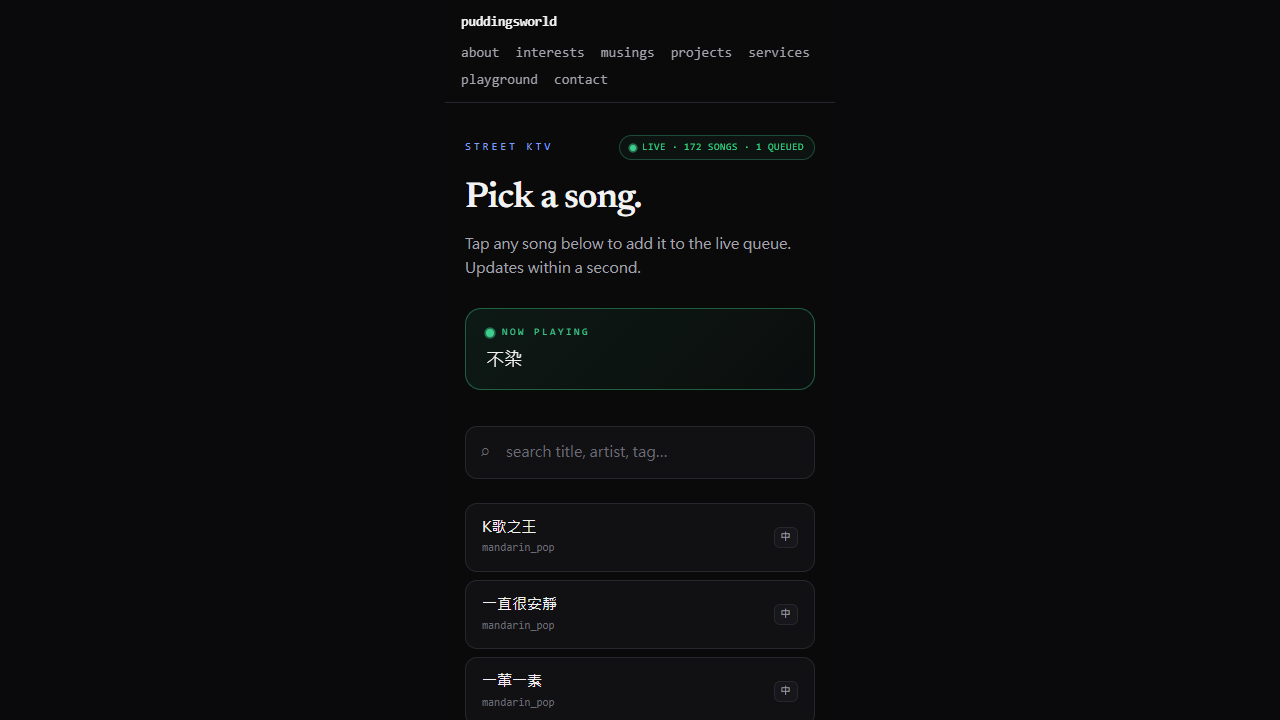
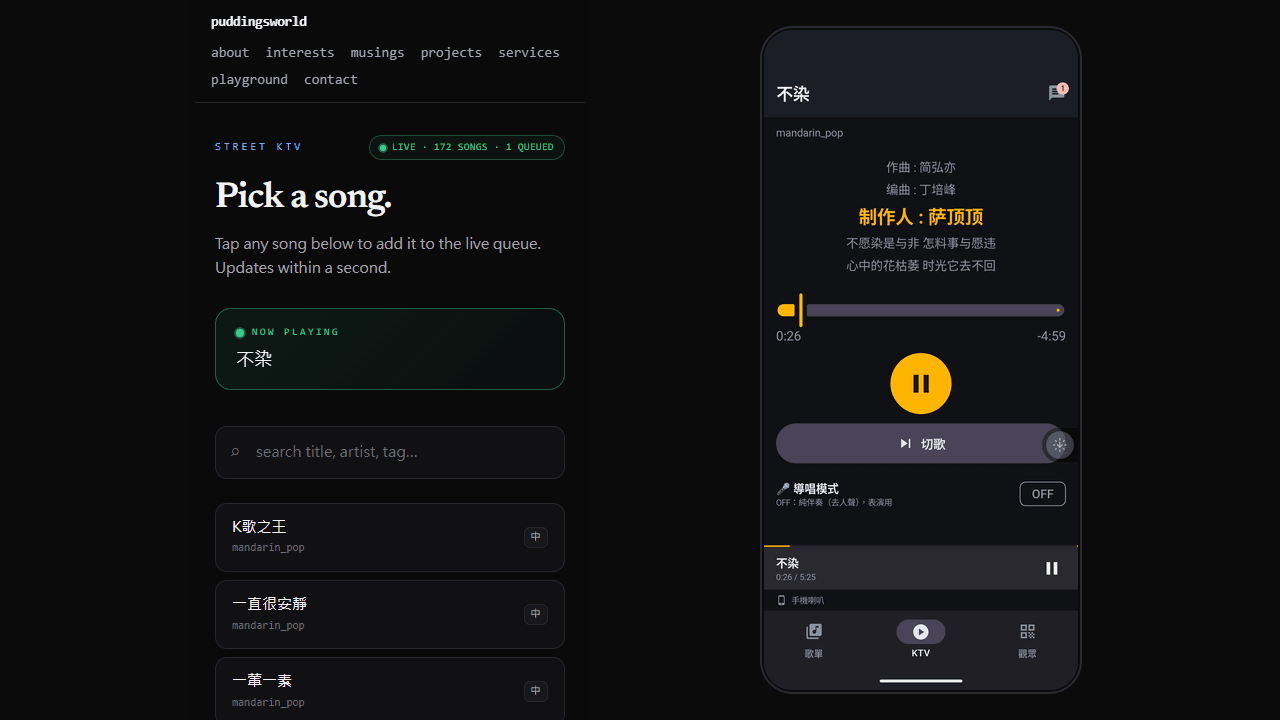
Street KTV thumbnail shows the Android app; GitHub links point at the org
The Street KTV card pairs the audience songbook with the performer app's
KTV screen. Footer, contact page, the hacker route and the /projects
header link to github.com/puddings-world; the personal profile stays on
the contact page.

diff --git a/app/contact/page.tsx b/app/contact/page.tsx
@@ -4,7 +4,8 @@ export const metadata = {
 
 const CONTACT = {
   email: "geniuspuddingforgames@gmail.com",
-  github: "https://github.com/GeniusPudding",
+  github: "https://github.com/puddings-world",
+  githubPersonal: "https://github.com/GeniusPudding",
 };
 
 export default function ContactPage() {
@@ -31,6 +32,12 @@ export default function ContactPage() {
           href={CONTACT.github}
           external
         />
+        <ContactRow
+          label="Personal"
+          value={CONTACT.githubPersonal.replace("https://", "")}
+          href={CONTACT.githubPersonal}
+          external
+        />
       </section>
 
       <p className="mt-12 text-sm text-ink-muted">
@@ -54,7 +61,7 @@ function ContactRow({
   external?: boolean;
 }) {
   return (
-    <div className="flex items-center justify-between rounded-lg border border-bg-border bg-bg-panel px-5 py-4">
+    <div className="flex items-center justify-between gap-4 rounded-lg border border-bg-border bg-bg-panel px-5 py-4">
       <span className="font-mono text-xs uppercase tracking-wider text-ink-muted">
         {label}
       </span>
@@ -62,7 +69,7 @@ function ContactRow({
         href={href}
         target={external ? "_blank" : undefined}
         rel={external ? "noreferrer" : undefined}
-        className="font-mono text-sm text-ink-primary hover:text-accent"
+        className="min-w-0 truncate font-mono text-sm text-ink-primary hover:text-accent"
       >
         {value}
       </a>

diff --git a/components/Header.tsx b/components/Header.tsx
@@ -13,7 +13,17 @@ export function Header({ totalProjects, live, shipped, lastFetched }: Props) {
         A running tab of what I&apos;m building, grouped by research, tools,
         and side projects. Every card is discovered from GitHub: tag a repo
         with the <code className="font-mono text-ink-primary">puddings-world</code>{" "}
-        topic and it shows up here on the next weekly refresh.
+        topic and it shows up here on the next weekly refresh. Public code
+        lives in the{" "}
+        <a
+          href="https://github.com/puddings-world"
+          target="_blank"
+          rel="noreferrer"
+          className="text-ink-primary underline decoration-bg-border underline-offset-4 hover:text-accent"
+        >
+          puddings-world organization on GitHub ↗
+        </a>
+        .
       </p>
 
       <dl className="mt-8 grid grid-cols-3 gap-2 sm:gap-3">

diff --git a/components/WhoAmIPrompt.tsx b/components/WhoAmIPrompt.tsx
@@ -21,8 +21,8 @@ const IDENTITIES: Identity[] = [
     routes: [
       { label: "Project dashboard with live activity", href: "/projects" },
       {
-        label: "GitHub @GeniusPudding",
-        href: "https://github.com/GeniusPudding",
+        label: "GitHub: puddings-world",
+        href: "https://github.com/puddings-world",
         external: true,
       },
       { label: "Suggested first stop: InvisibleGo", href: "/projects/invisiblego" },

diff --git a/components/Footer.tsx b/components/Footer.tsx
@@ -18,7 +18,7 @@ export function Footer() {
           </li>
           <li>
             <a
-              href="https://github.com/GeniusPudding"
+              href="https://github.com/puddings-world"
               target="_blank"
               rel="noreferrer"
               className="text-ink-muted transition-colors hover:text-accent"
